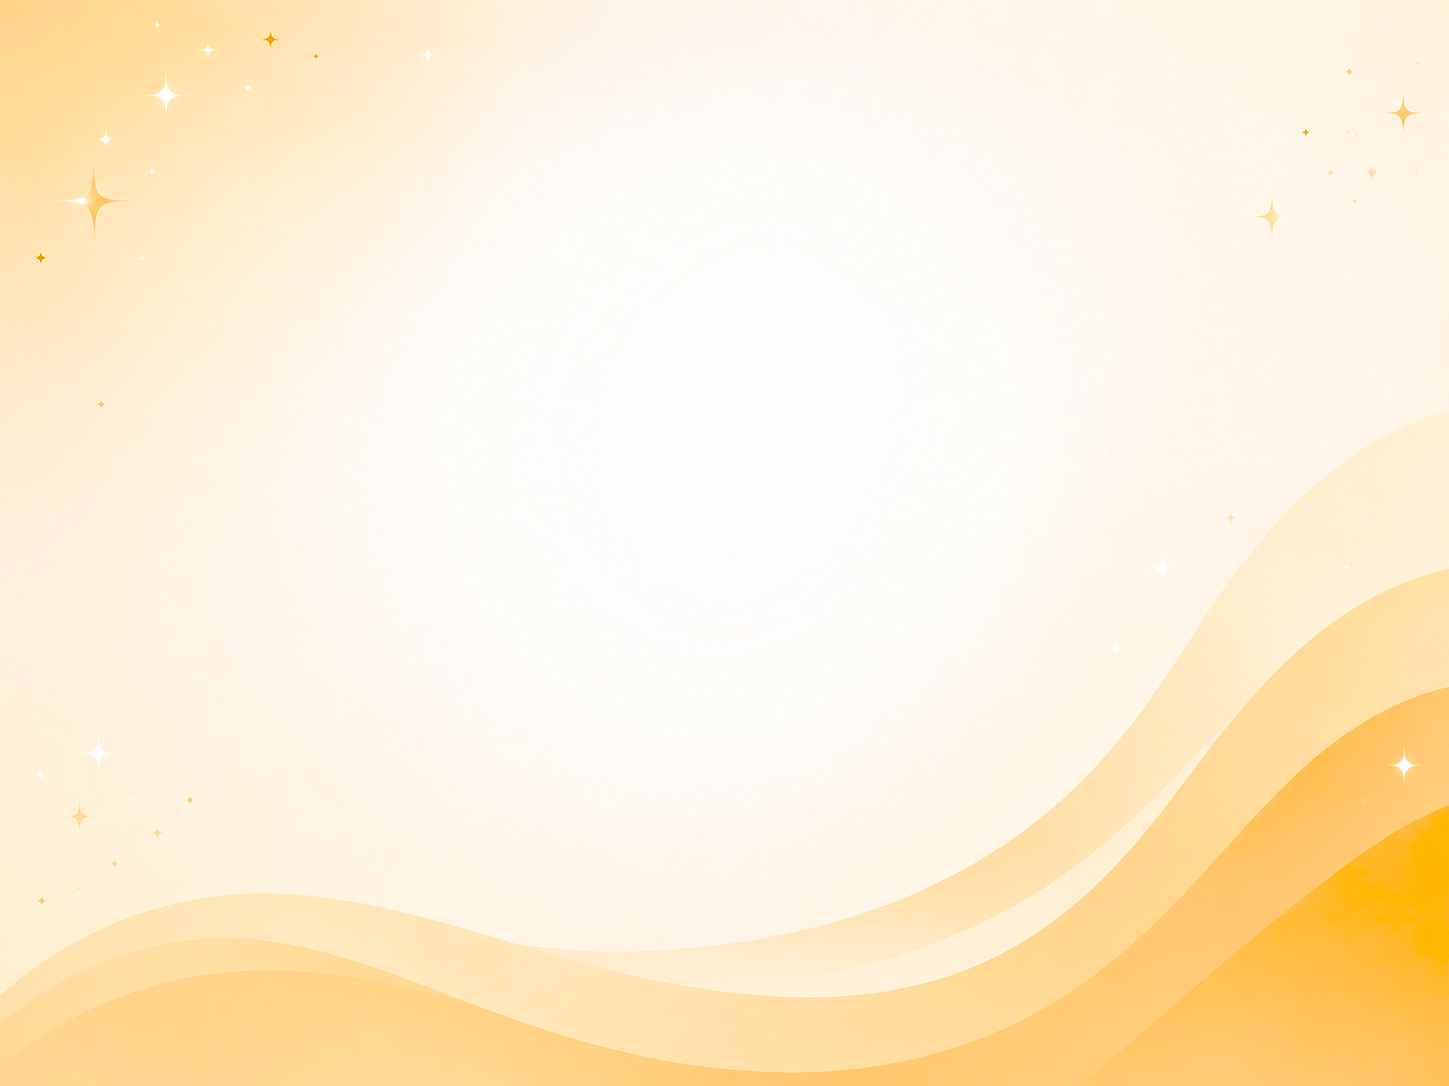
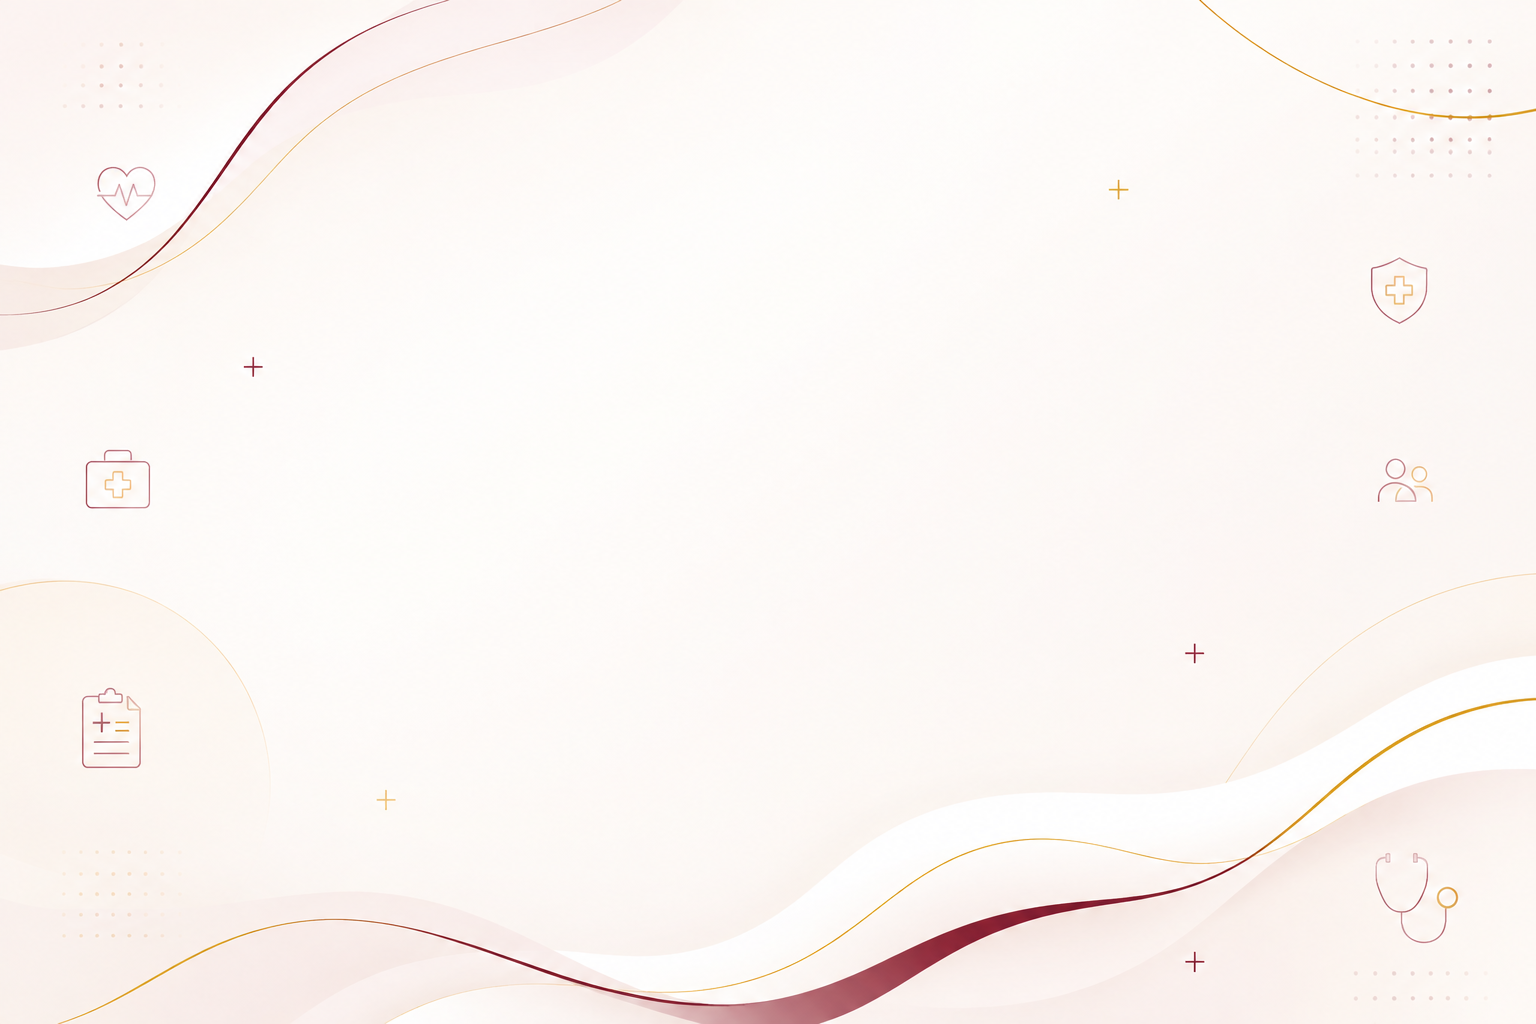
update dec form template

diff --git a/resources/views/student/print_declaration_form.blade.php b/resources/views/student/print_declaration_form.blade.php
@@ -33,9 +33,9 @@
             margin: 0;
             padding: 0;
             color: #111827;
-            font-family: Arial, Helvetica, sans-serif;
-            font-size: 12.5px;
-            line-height: 1.45;
+            font-family: Arial, sans-serif;
+            font-size: 12px;
+            line-height: 1.5;
         }
 
         .header-table {
@@ -51,31 +51,32 @@
         }
 
         .header-logo-left {
-            width: 78px;
+            width: 90px;
             text-align: left;
         }
 
         .header-logo-left img {
-            width: 72px;
-            height: 72px;
+            width: 80px;
+            height: 80px;
             object-fit: contain;
         }
 
         .header-center {
             text-align: left;
-            padding-left: 8px !important;
-            line-height: 1.18;
+            padding-left: 4px !important;
+            line-height: 1.22;
         }
 
         .header-center .gov-title {
-            font-size: 10px;
+            font-family: "Times New Roman", Times, serif;
+            font-size: 8.04px;
             color: #374151;
             margin: 0;
         }
 
         .header-center .univ-title {
             font-family: "Times New Roman", Times, serif;
-            font-size: 13.5px;
+            font-size: 8.96px;
             font-weight: bold;
             color: #111827;
             text-transform: uppercase;
@@ -84,20 +85,22 @@
         }
 
         .header-center .office-title {
-            font-size: 10.5px;
+            font-family: "Times New Roman", Times, serif;
+            font-size: 8.04px;
             color: #374151;
             margin: 0;
         }
 
         .header-center .dept-title {
-            font-size: 11.5px;
+            font-family: "Times New Roman", Times, serif;
+            font-size: 8.96px;
             font-weight: bold;
             color: #111827;
             margin: 1px 0 0;
         }
 
         .header-campus-tag {
-            text-align: center;
+            text-align: left;
             font-size: 12px;
             font-weight: normal;
             color: #111827;
@@ -105,12 +108,12 @@
         }
 
         .header-logo-right {
-            width: 82px;
+            width: 90px;
             text-align: right;
         }
 
         .header-logo-right img {
-            width: 76px;
+            width: 84px;
             height: auto;
             object-fit: contain;
         }
@@ -122,8 +125,8 @@
         }
 
         .form-title {
-            margin: 16px 0 20px;
-            font-size: 15px;
+            margin: 18px 0 20px;
+            font-size: 16px;
             font-weight: bold;
             text-align: center;
             color: #000000;
@@ -137,8 +140,9 @@
 
         .declaration-p {
             margin: 0 0 16px;
-            font-size: 12.5px;
-            line-height: 1.55;
+            font-family: Arial, sans-serif;
+            font-size: 12px;
+            line-height: 1.6;
             text-align: justify;
             text-justify: inter-word;
             color: #111827;
@@ -153,7 +157,7 @@
 
         .signature-block-table {
             width: 100%;
-            margin-top: 28px;
+            margin-top: 24px;
             border-collapse: collapse;
             table-layout: fixed;
         }
@@ -182,8 +186,8 @@
         .student-signature-preview {
             display: block;
             margin: 0 auto -22px;
-            max-height: 48px;
-            max-width: 170px;
+            max-height: 52px;
+            max-width: 175px;
             object-fit: contain;
             position: relative;
         }
@@ -191,7 +195,7 @@
         .sig-underline {
             border-bottom: 1px solid #000000;
             min-height: 18px;
-            font-size: 12px;
+            font-size: 13px;
             font-weight: bold;
             text-transform: uppercase;
             padding-bottom: 2px;
@@ -200,19 +204,19 @@
 
         .sig-caption {
             margin-top: 3px;
-            font-size: 11px;
+            font-size: 12px;
             color: #111827;
         }
 
         .remarks-line {
             margin: 14px 0 20px;
-            font-size: 12px;
+            font-size: 13px;
             text-align: left;
         }
 
         .minor-note {
             margin-top: 6px;
-            font-size: 11px;
+            font-size: 11.5px;
             line-height: 1.35;
             color: #111827;
             text-align: justify;
@@ -220,7 +224,7 @@
 
         .footer-table {
             position: fixed;
-            bottom: 0;
+            bottom: 25px;
             left: 0;
             right: 0;
             width: 100%;
@@ -236,8 +240,8 @@
 
         .footer-left {
             width: 56%;
-            font-size: 8.5px;
-            line-height: 1.25;
+            font-size: 9.5px;
+            line-height: 1.3;
             color: #374151;
         }
 
@@ -248,7 +252,7 @@
 
         .footer-motto {
             margin-top: 5px;
-            font-size: 9.5px;
+            font-size: 10.5px;
             font-weight: bold;
             color: #111827;
             letter-spacing: 0.02em;
@@ -262,7 +266,7 @@
 
         .footer-badge-img {
             max-width: 100%;
-            height: 38px;
+            height: 44px;
             object-fit: contain;
         }
     </style>

diff --git a/app/Http/Controllers/AdminController.php b/app/Http/Controllers/AdminController.php
@@ -3727,6 +3727,71 @@ class AdminController extends Controller
             }
         }
 
+        if ($document === 'health_declaration') {
+            $user = $submission->user ?? optional($submission->healthProfile)->user;
+            $healthProfile = $submission->healthProfile;
+
+            $categorySelected = trim((string) ($submission->category ?: optional($healthProfile)->health_form_category ?: ''));
+            if ($categorySelected === '') {
+                $categorySelected = 'Student';
+            }
+            $isOjt = stripos($categorySelected, 'ojt') !== false || stripos($categorySelected, 'on-the-job') !== false;
+            $purposeUnderline1 = $isOjt ? 'On-the-Job Training (OJT)' : 'enrolled student';
+            $purposeUnderline2 = $isOjt ? 'On-the-Job Training (OJT)' : 'enrolment as a student';
+
+            $studentFullName = trim(implode(' ', array_filter([
+                $user?->first_name,
+                $user?->middle_name,
+                $user?->last_name,
+                $user?->suffix_name,
+            ]))) ?: ($user?->name ?? '');
+
+            $digitalSignaturePath = ltrim((string) ($profileData['digital_signature'] ?? optional($healthProfile)->digital_signature ?? ''), '/');
+            $studentSignatureSrc = $digitalSignaturePath !== '' && $this->healthFiles()->exists($digitalSignaturePath)
+                ? app(\App\Services\StoredImageDataUri::class)->fromStorage($digitalSignaturePath)
+                : null;
+
+            $age = (int) ($profileData['age'] ?? optional($healthProfile)->age ?? 0);
+            $isMinorStudent = $age < 18;
+            $guardianSignatureSrc = null;
+            if ($isMinorStudent) {
+                try {
+                    $guardianFiles = $this->healthFiles()->files('health_profiles/guardian_signatures');
+                    if (!empty($guardianFiles)) {
+                        $latestGuardianFile = collect($guardianFiles)->sortByDesc(fn ($f) => $this->healthFiles()->lastModified($f) ?? 0)->first();
+                        if ($latestGuardianFile) {
+                            $guardianSignatureSrc = app(\App\Services\StoredImageDataUri::class)->fromStorage($latestGuardianFile);
+                        }
+                    }
+                } catch (\Throwable $e) {
+                    // Ignore and proceed without guardian sig image if not found
+                }
+            }
+
+            $pdf = \Barryvdh\DomPDF\Facade\Pdf::loadView('student.print_declaration_form', [
+                'user' => $user,
+                'studentFullName' => $studentFullName,
+                'studentNumber' => $profileData['student_number'] ?? optional($healthProfile)->student_number ?? optional($healthProfile)->reference_number,
+                'course' => $profileData['course_college'] ?? optional($healthProfile)->course_college,
+                'age' => $age,
+                'guardianName' => $profileData['guardian_name'] ?? optional($healthProfile)->guardian_name,
+                'isMinor' => $isMinorStudent,
+                'categorySelected' => $categorySelected,
+                'purposeUnderline1' => $purposeUnderline1,
+                'purposeUnderline2' => $purposeUnderline2,
+                'studentSignatureSrc' => $studentSignatureSrc,
+                'guardianSignatureSrc' => $guardianSignatureSrc,
+                'signatureDate' => optional($submission->submitted_at ?? optional($healthProfile)->updated_at)->format('m/d/Y') ?: now()->format('m/d/Y'),
+                'remarks' => '',
+            ])->setPaper('letter', 'portrait');
+
+            return $pdf->stream('declaration-form-' . ($submission->id) . '.pdf', [
+                'Cache-Control' => 'no-store, no-cache, must-revalidate, max-age=0',
+                'Pragma' => 'no-cache',
+                'Expires' => '0',
+            ]);
+        }
+
         $path = ltrim((string) ($profileData[$document] ?? ''), '/');
         $path = preg_replace('#^(?:public/)?storage/#', '', $path) ?? $path;
         abort_if($path === '' || !$this->healthFiles()->exists($path), 404, 'Historical document not found.');

diff --git a/app/Http/Controllers/AppointmentController.php b/app/Http/Controllers/AppointmentController.php
@@ -3043,6 +3043,70 @@ public function account(Request $request)
             return $this->printHealthForm();
         }
 
+        if ($document === 'health_declaration') {
+            $healthProfile->loadMissing('user');
+            $user = $healthProfile->user;
+
+            $categorySelected = trim((string) ($healthProfile->health_form_category ?? ''));
+            if ($categorySelected === '') {
+                $categorySelected = 'Student';
+            }
+            $isOjt = stripos($categorySelected, 'ojt') !== false || stripos($categorySelected, 'on-the-job') !== false;
+            $purposeUnderline1 = $isOjt ? 'On-the-Job Training (OJT)' : 'enrolled student';
+            $purposeUnderline2 = $isOjt ? 'On-the-Job Training (OJT)' : 'enrolment as a student';
+
+            $studentFullName = trim(implode(' ', array_filter([
+                $user?->first_name,
+                $user?->middle_name,
+                $user?->last_name,
+                $user?->suffix_name,
+            ]))) ?: ($user?->name ?? '');
+
+            $digitalSignaturePath = ltrim((string) ($healthProfile->digital_signature ?? ''), '/');
+            $studentSignatureSrc = $digitalSignaturePath !== '' && $this->healthFiles()->exists($digitalSignaturePath)
+                ? app(\App\Services\StoredImageDataUri::class)->fromStorage($digitalSignaturePath)
+                : null;
+
+            $isMinorStudent = (int) ($healthProfile->age ?? 0) < 18;
+            $guardianSignatureSrc = null;
+            if ($isMinorStudent) {
+                try {
+                    $guardianFiles = $this->healthFiles()->files('health_profiles/guardian_signatures');
+                    if (!empty($guardianFiles)) {
+                        $latestGuardianFile = collect($guardianFiles)->sortByDesc(fn ($f) => $this->healthFiles()->lastModified($f) ?? 0)->first();
+                        if ($latestGuardianFile) {
+                            $guardianSignatureSrc = app(\App\Services\StoredImageDataUri::class)->fromStorage($latestGuardianFile);
+                        }
+                    }
+                } catch (\Throwable $e) {
+                    // Ignore and proceed without guardian sig image if not found
+                }
+            }
+
+            $pdf = \Barryvdh\DomPDF\Facade\Pdf::loadView('student.print_declaration_form', [
+                'user' => $user,
+                'studentFullName' => $studentFullName,
+                'studentNumber' => $healthProfile->student_number ?: $healthProfile->reference_number,
+                'course' => $healthProfile->course_college,
+                'age' => $healthProfile->age,
+                'guardianName' => $healthProfile->guardian_name,
+                'isMinor' => $isMinorStudent,
+                'categorySelected' => $categorySelected,
+                'purposeUnderline1' => $purposeUnderline1,
+                'purposeUnderline2' => $purposeUnderline2,
+                'studentSignatureSrc' => $studentSignatureSrc,
+                'guardianSignatureSrc' => $guardianSignatureSrc,
+                'signatureDate' => optional($healthProfile->updated_at)->format('m/d/Y') ?: now()->format('m/d/Y'),
+                'remarks' => '',
+            ])->setPaper('letter', 'portrait');
+
+            return $pdf->stream('declaration-form-' . ($healthProfile->student_number ?: $healthProfile->id) . '.pdf', [
+                'Cache-Control' => 'no-store, no-cache, must-revalidate, max-age=0',
+                'Pragma' => 'no-cache',
+                'Expires' => '0',
+            ]);
+        }
+
         $path = ltrim((string) $healthProfile->{$document}, '/');
         $path = preg_replace('#^(?:public/)?storage/#', '', $path) ?? $path;
 

diff --git a/app/Services/HealthFileStorage.php b/app/Services/HealthFileStorage.php
@@ -60,6 +60,17 @@ class HealthFileStorage
         return is_string($mimeType) && $mimeType !== '' ? $mimeType : null;
     }
 
+    public function lastModified(?string $value): ?int
+    {
+        $resolved = $this->resolve($value);
+        if (!$resolved) {
+            return null;
+        }
+        [$disk, $path] = $resolved;
+
+        return $disk->lastModified($path) ?: null;
+    }
+
     public function put(string $path, $contents, array $options = []): bool
     {
         $path = $this->normalizePath($path);
@@ -118,6 +129,17 @@ class HealthFileStorage
         }
 
         return $deleted;
+    }
+
+    public function files(string $directory = ''): array
+    {
+        $directory = $this->normalizePath($directory);
+        $files = $this->writeDisk()->files($directory);
+        if (empty($files) && $this->writeDiskName() !== $this->legacyDiskName()) {
+            $files = $this->legacyDisk()->files($directory);
+        }
+
+        return $files ?: [];
     }
 
     public function download(?string $value, ?string $name = null, array $headers = [])
